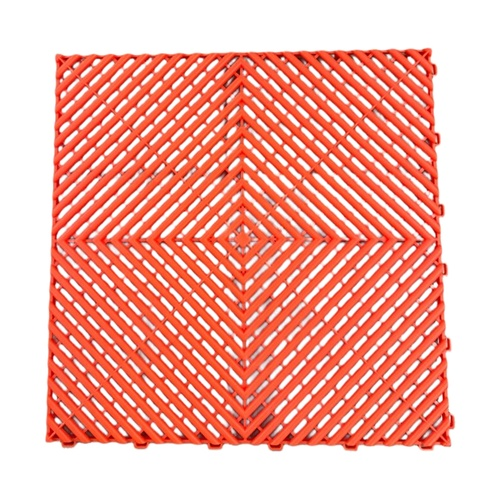
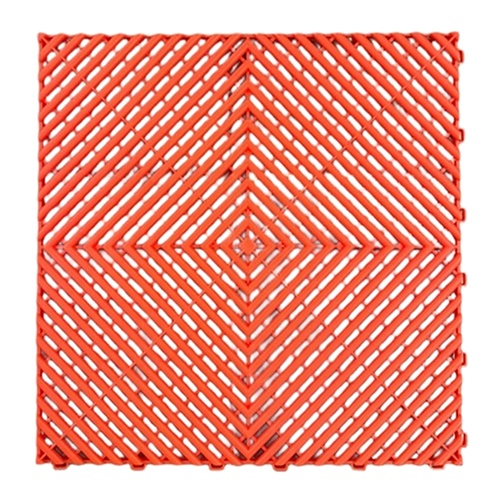
preview: alinear rejilla (solo alineacion, con encastres)

diff --git a/calculadora-baldosas/sw.js b/calculadora-baldosas/sw.js
@@ -1,4 +1,4 @@
-const CACHE = 'nexa-v101-foto2-real';
+const CACHE = 'nexa-v102-rejilla-align';
 const ASSETS = [
   './',
   './index.html',
